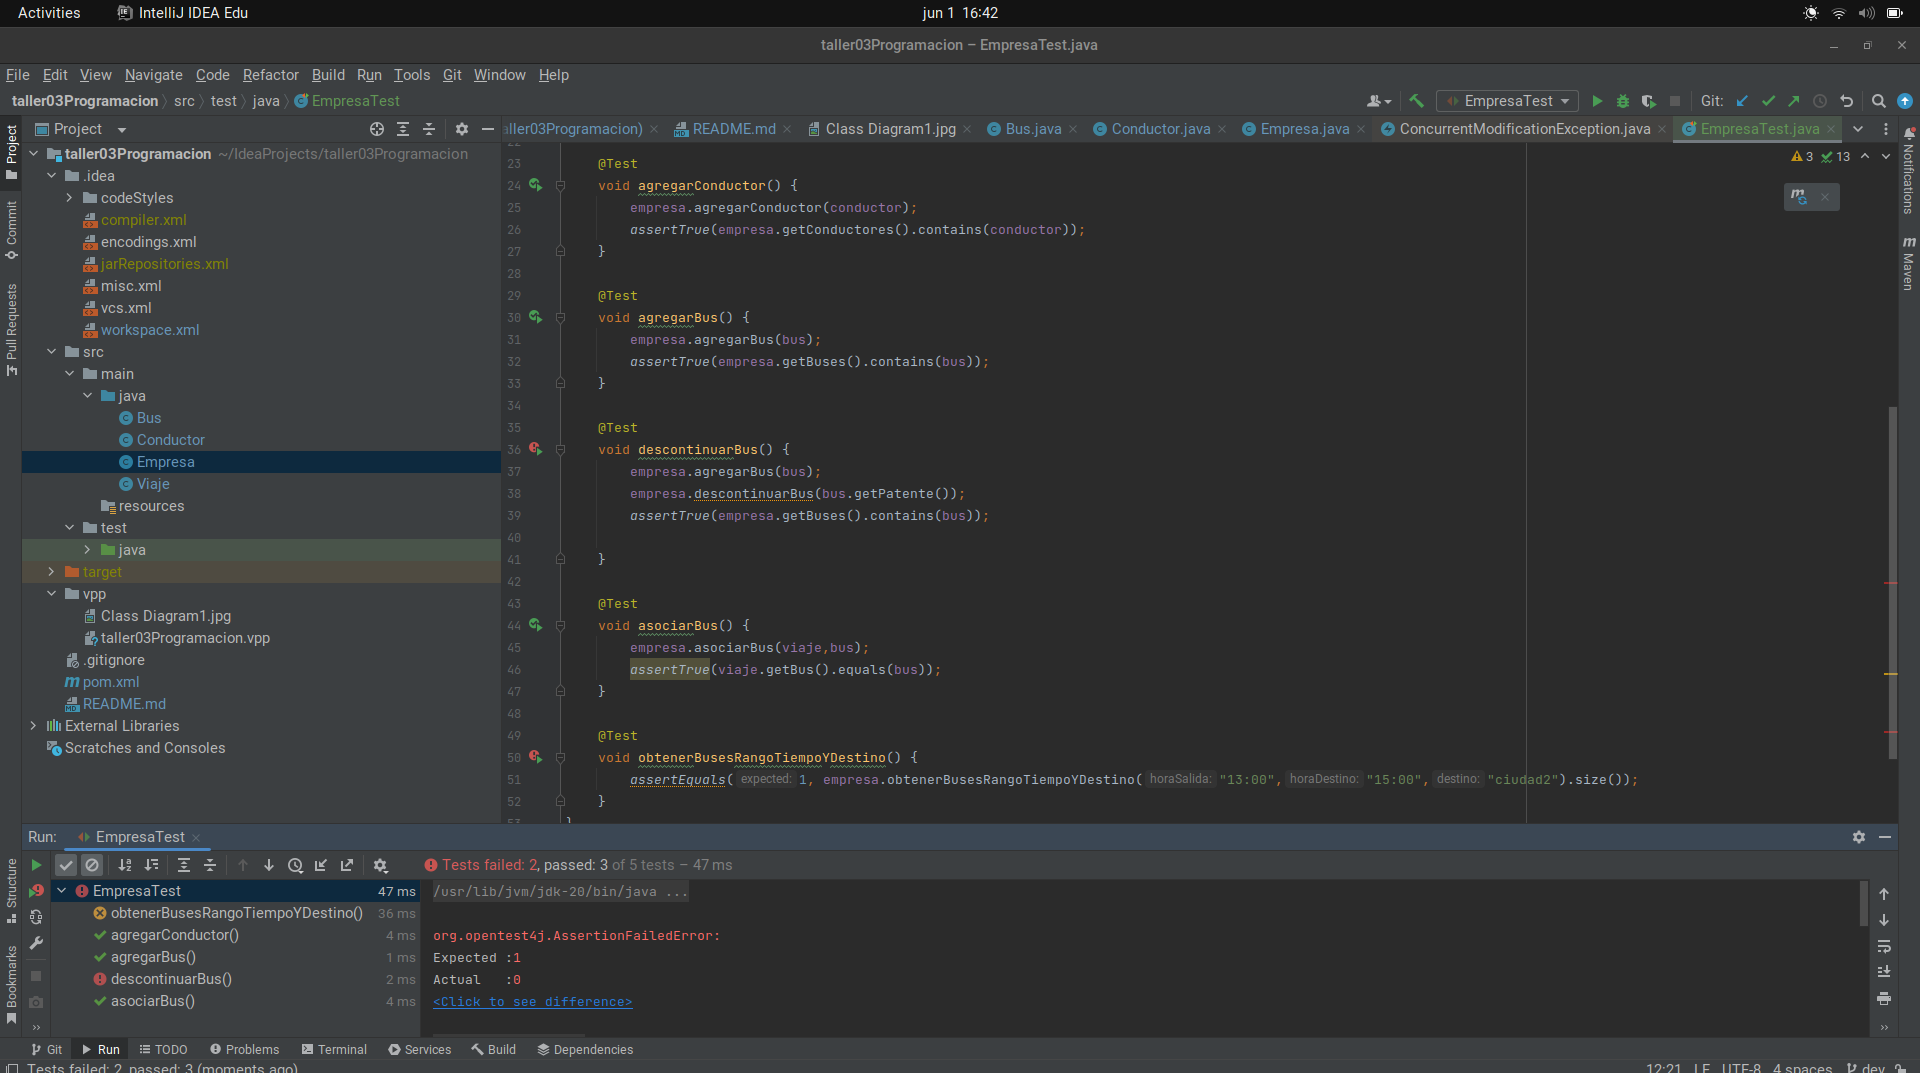
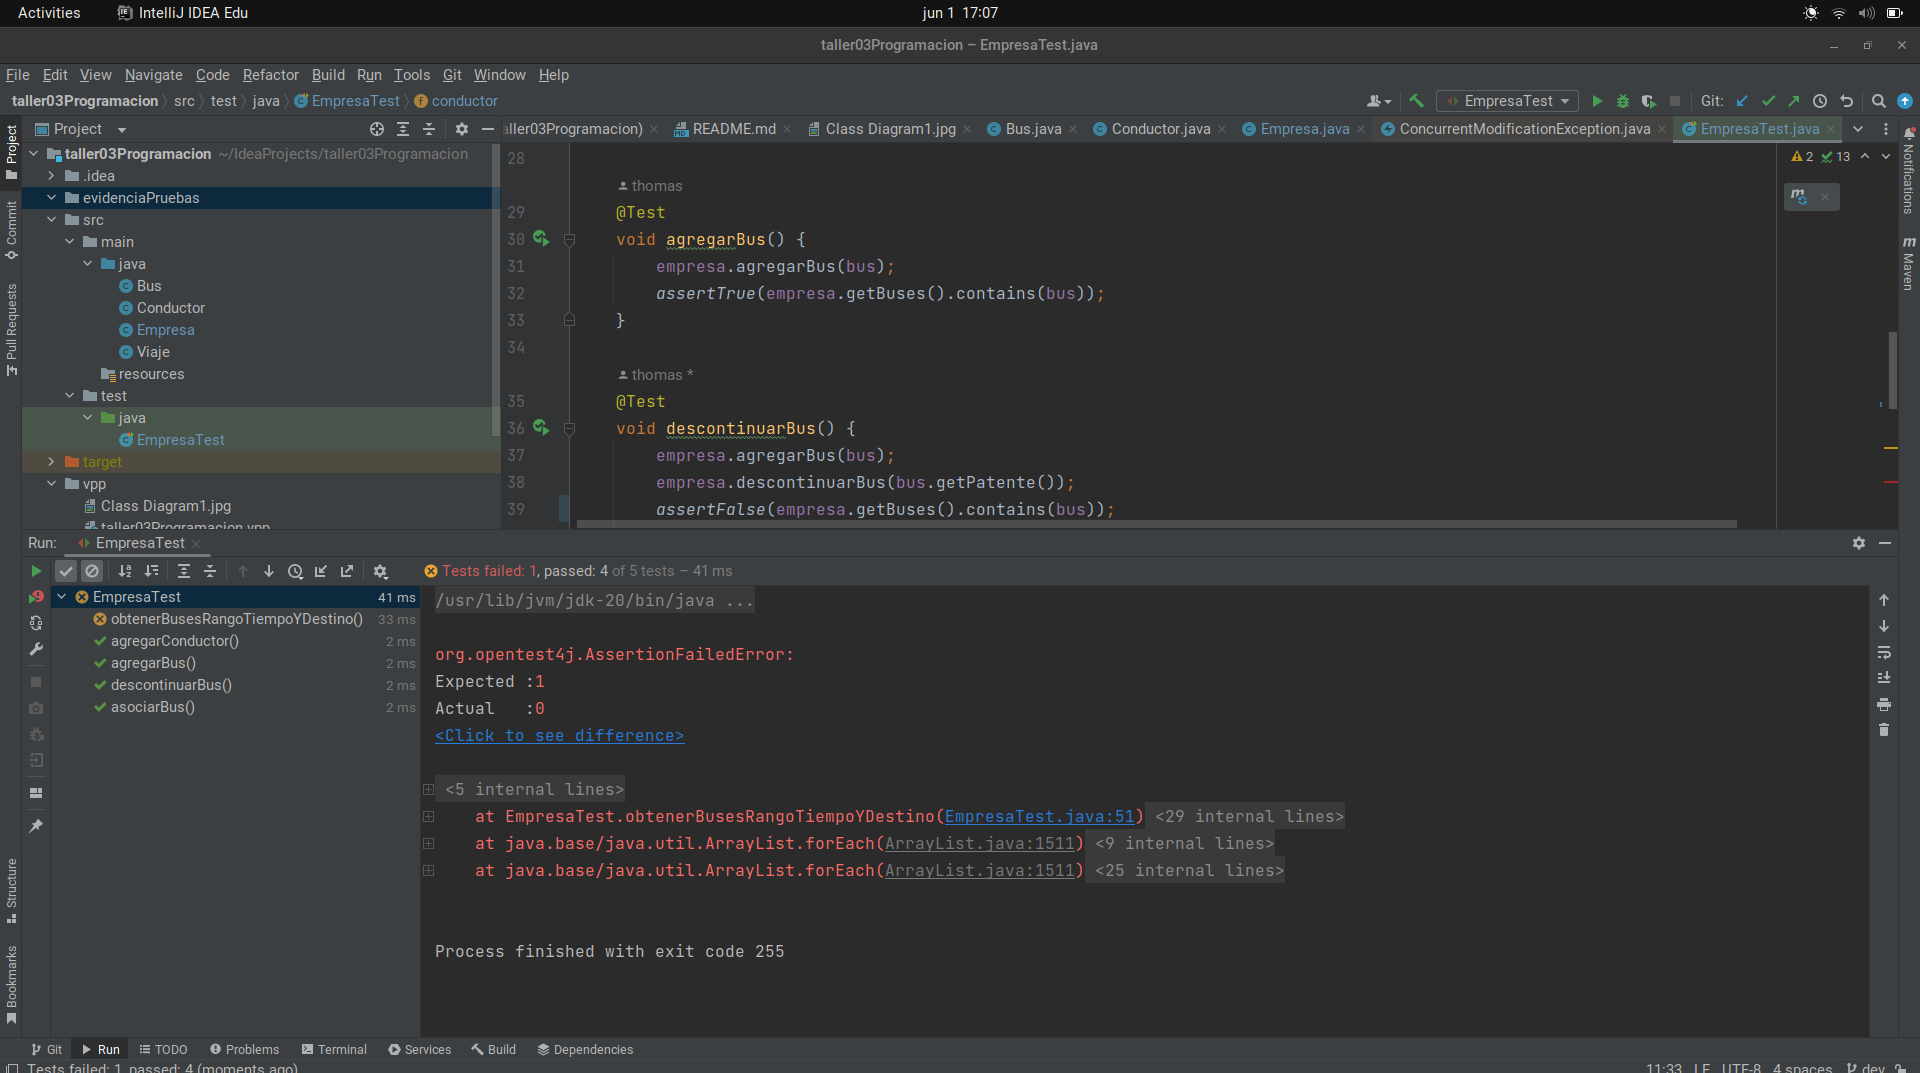
Corregido error prueba unitaria metodo descontinuarBus

diff --git a/src/main/java/Empresa.java b/src/main/java/Empresa.java
@@ -56,16 +56,17 @@ public class Empresa {
 		}
 	}
 
-	public void quitarBus(Bus bus){
-		buses.remove(bus);
+	public void descontinuarBus(String patente){
+		buses.remove(buscarBus(patente));
 	}
 
-	public void descontinuarBus(String patente) {
+	public Bus buscarBus(String patente) {
 		for (Bus b: buses) {
 			if(b.getPatente().equals(patente)){
-				quitarBus(b);
+				return b;
 			}
 		}
+		return null;
 	}
 
 	public void agregarViaje(Viaje viaje) {

diff --git a/src/test/java/EmpresaTest.java b/src/test/java/EmpresaTest.java
@@ -36,7 +36,7 @@ class EmpresaTest {
     void descontinuarBus() {
         empresa.agregarBus(bus);
         empresa.descontinuarBus(bus.getPatente());
-        assertTrue(empresa.getBuses().contains(bus));
+        assertFalse(empresa.getBuses().contains(bus));
 
     }
 
